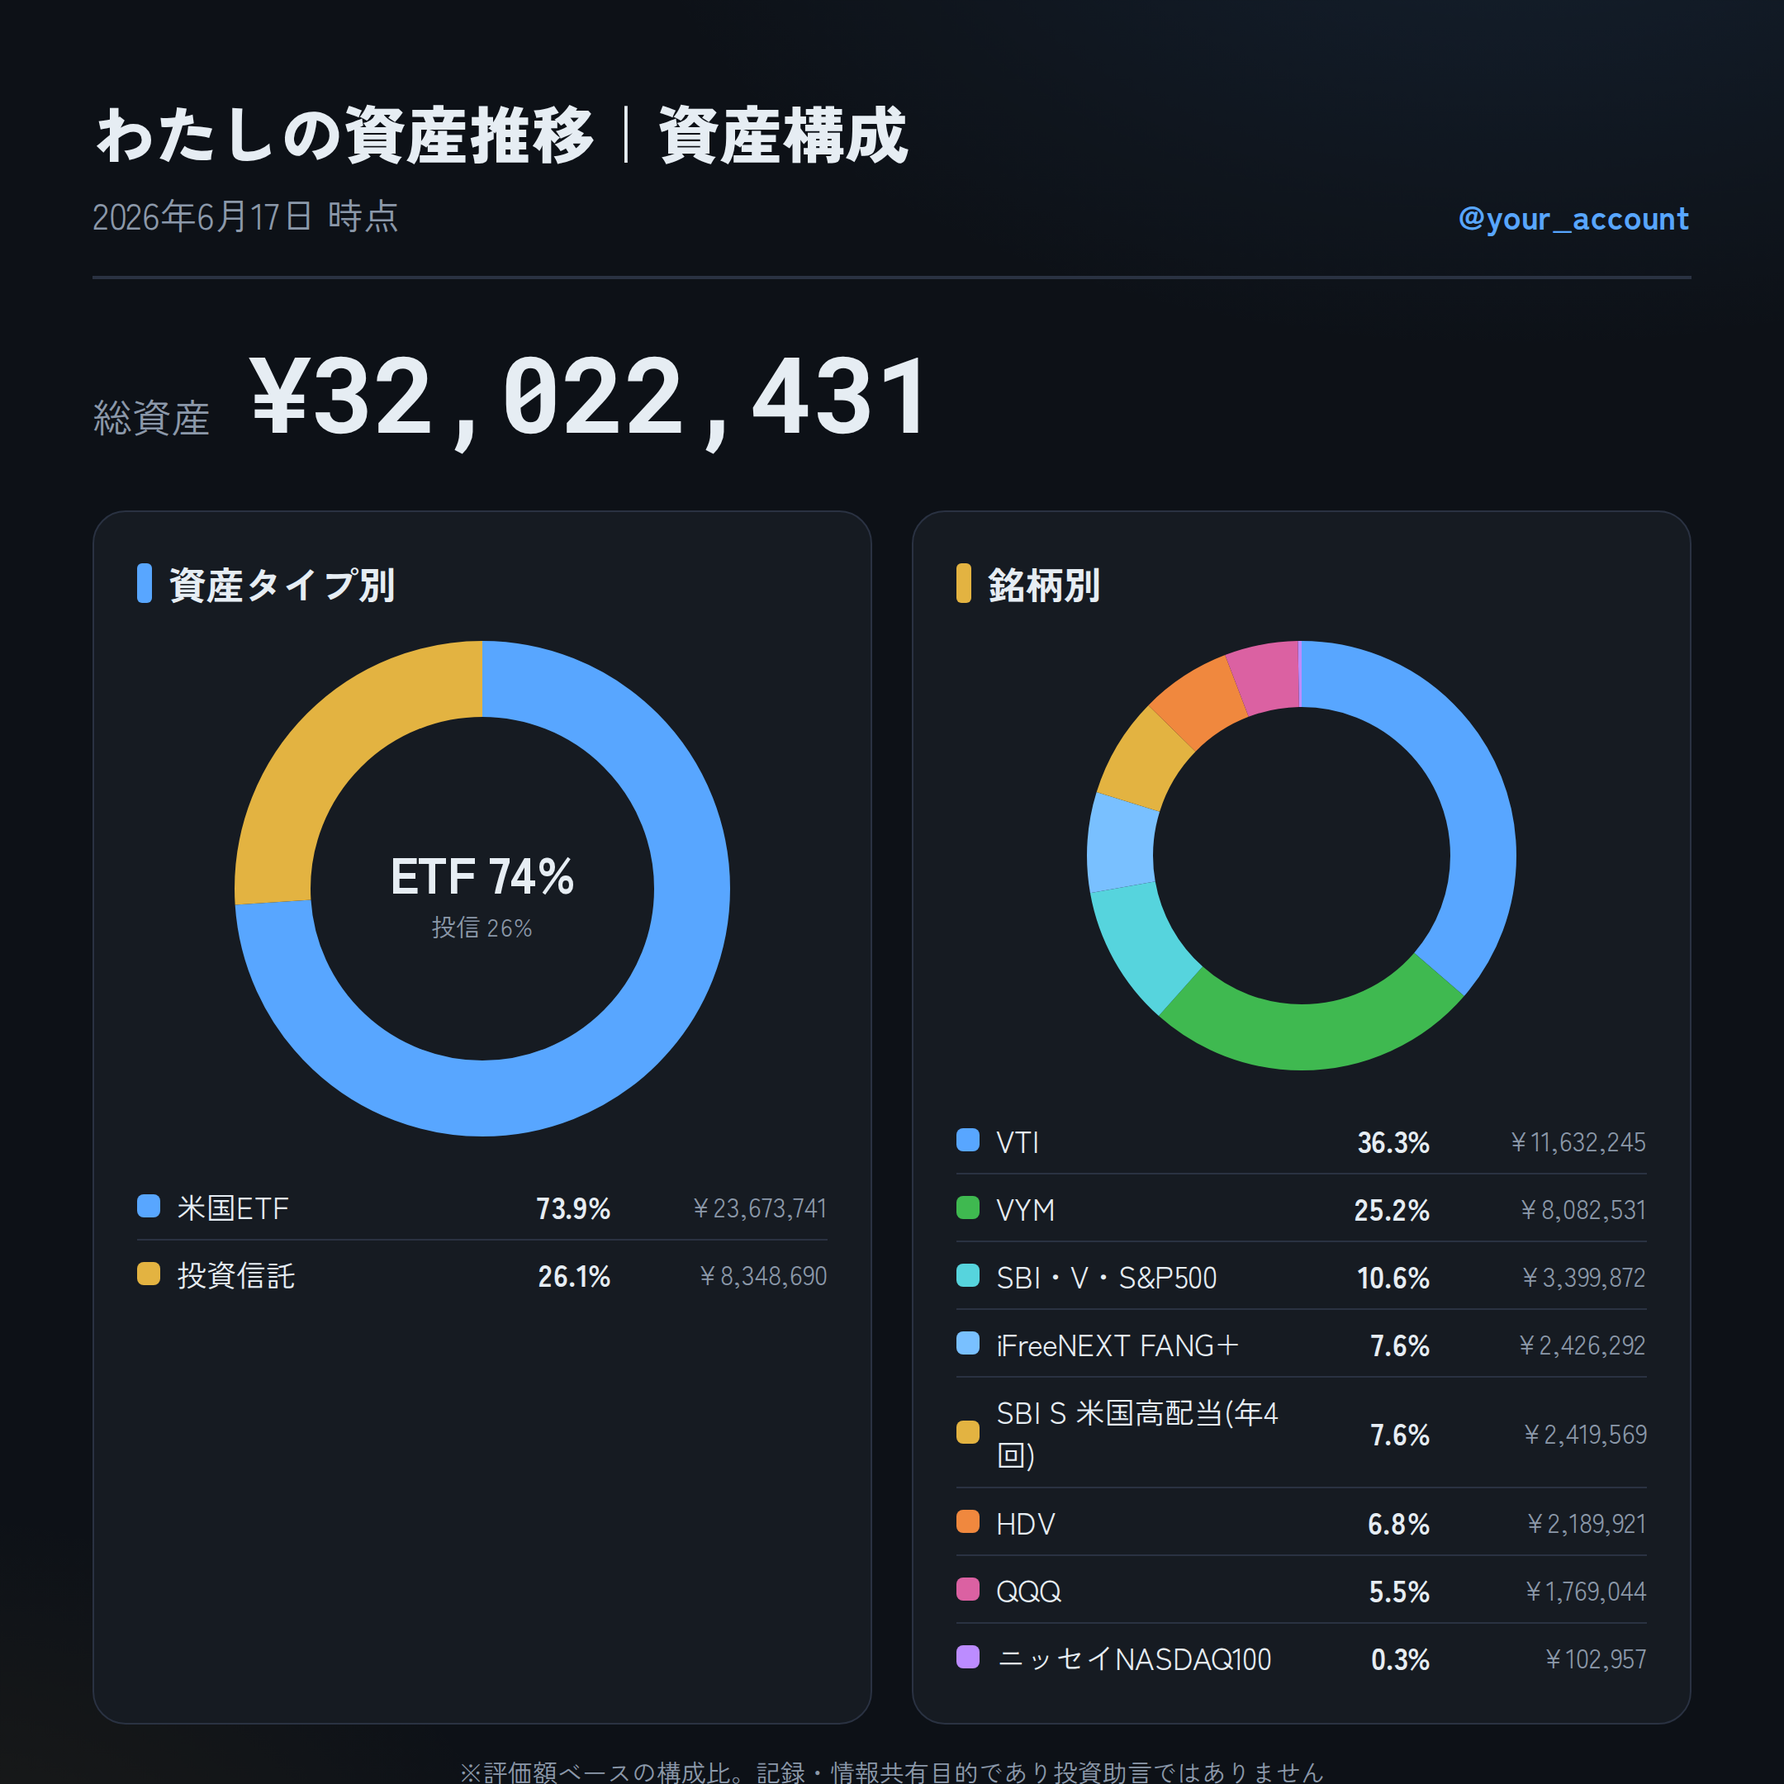
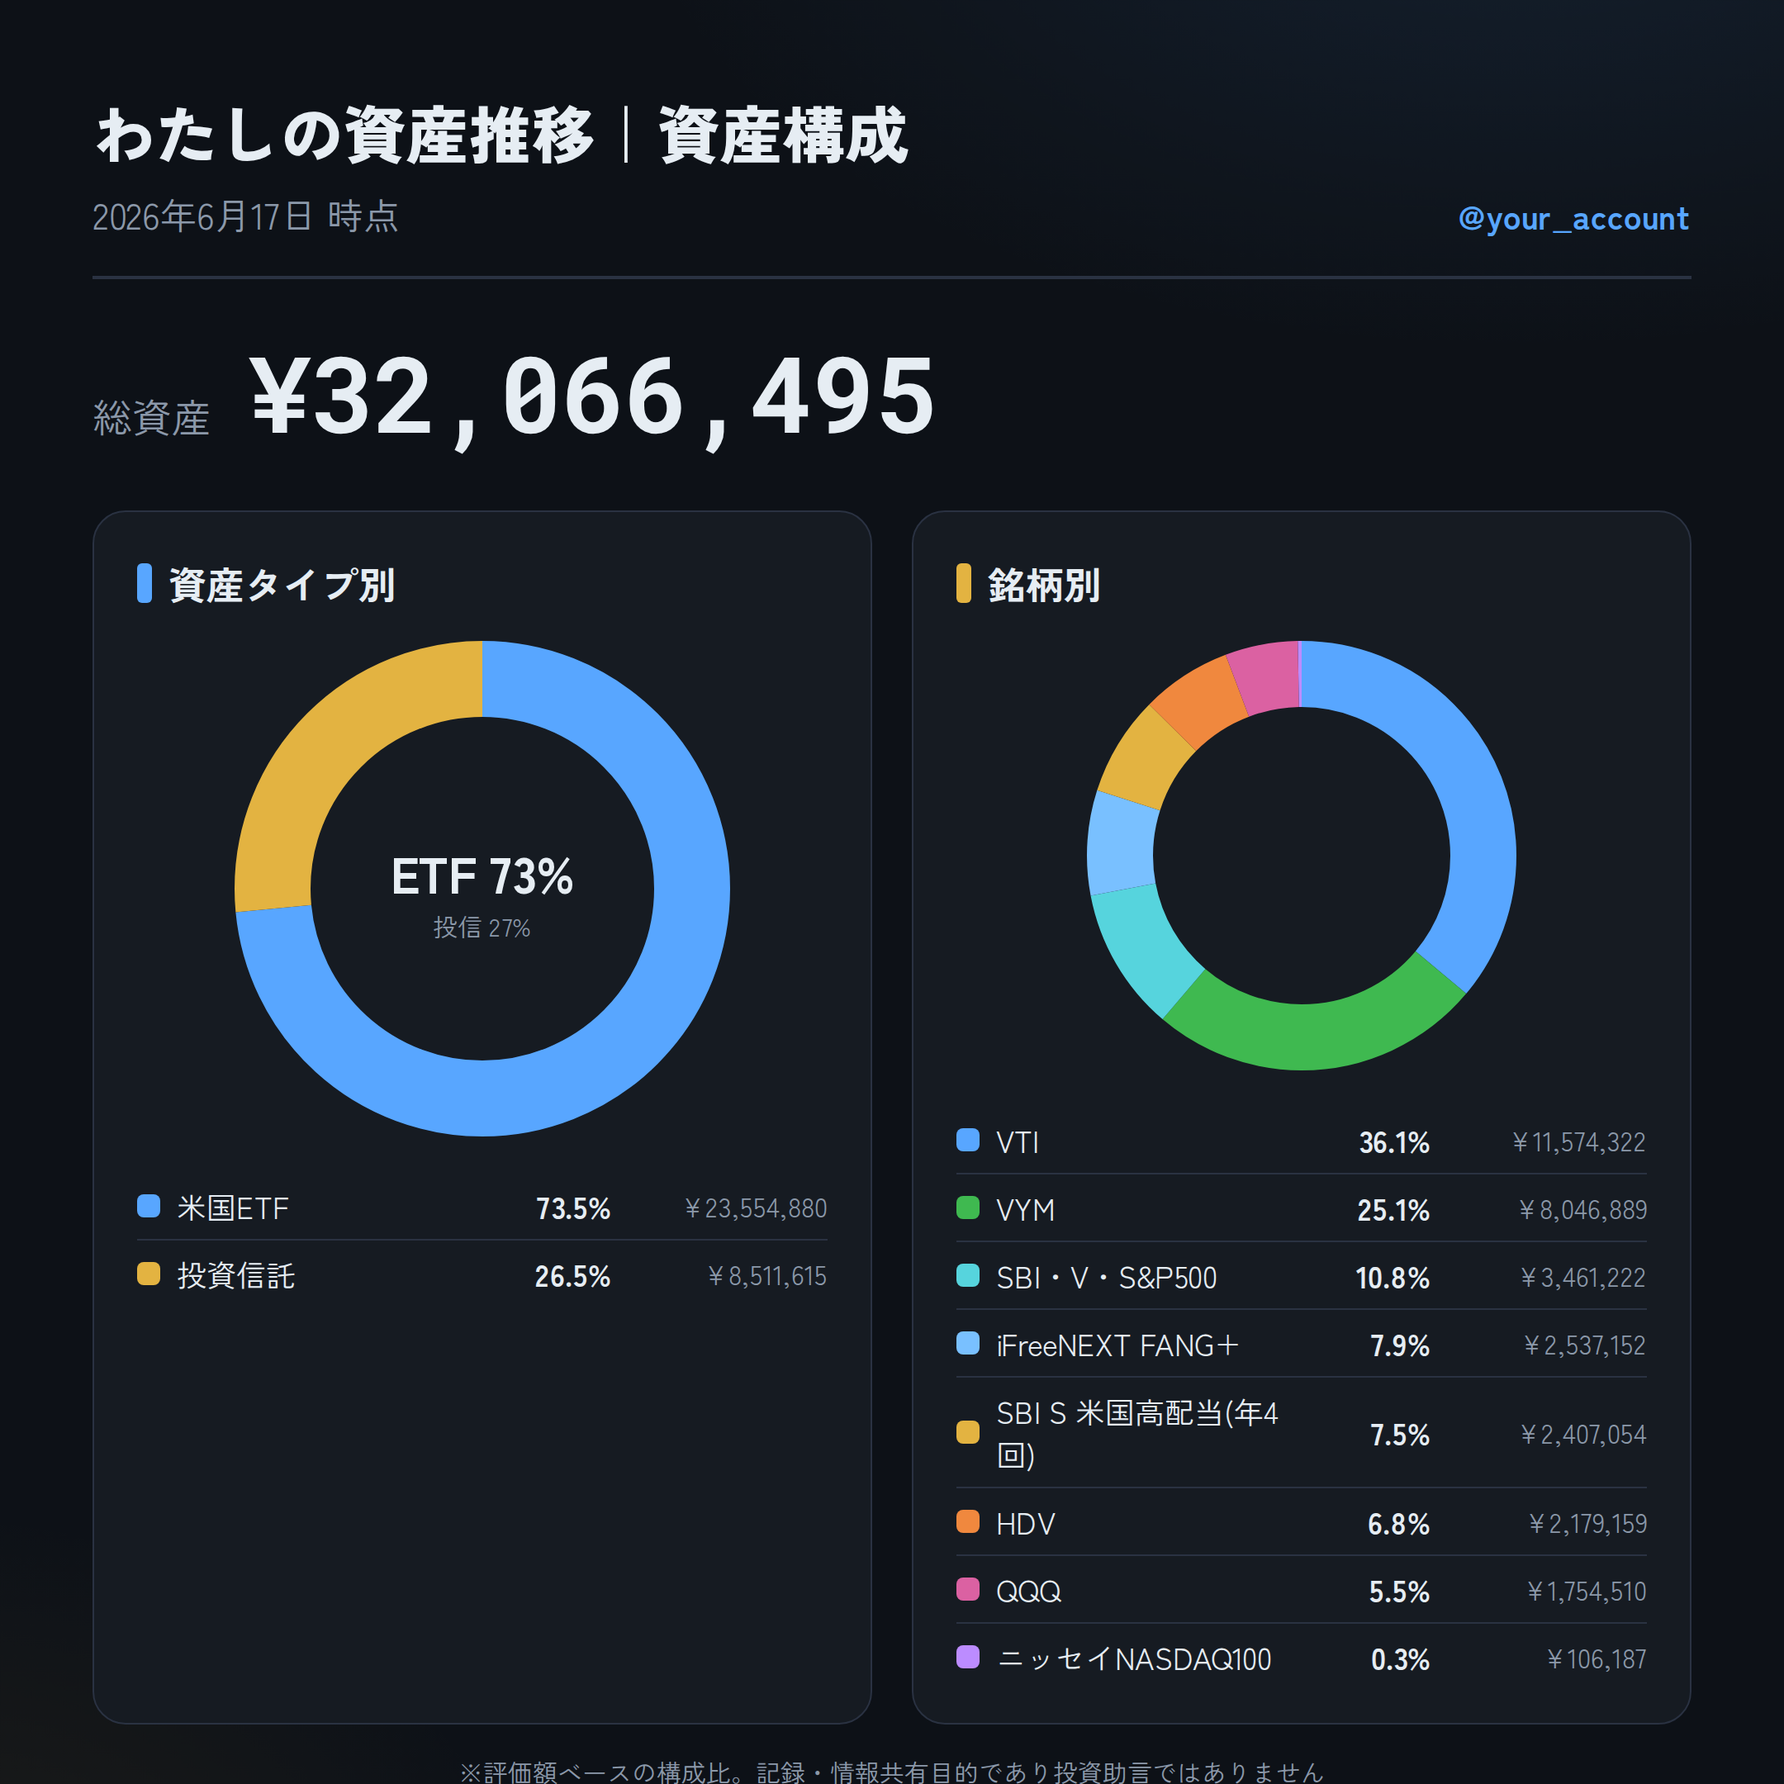
update: 2026-06-17

diff --git a/slide/allocation.html b/slide/allocation.html
@@ -61,87 +61,87 @@ footer { margin-top:18px; text-align:center; font-size:15px; color:var(--dim); }
 
   <div class="total-wrap">
     <span class="total-label">総資産</span>
-    <span class="total mono">¥32,022,431</span>
+    <span class="total mono">¥32,066,495</span>
   </div>
 
   <div class="cols">
     <div class="panel cat">
       <div class="panel-h">資産タイプ別</div>
       <div class="donut-wrap">
-        <svg viewBox="0 0 300 300" xmlns="http://www.w3.org/2000/svg"><circle cx="150.0" cy="150.0" r="127.0" fill="none" stroke="#58a6ff" stroke-width="46" stroke-dasharray="589.924 208.040" stroke-dashoffset="-0.000" transform="rotate(-90 150.0 150.0)"/><circle cx="150.0" cy="150.0" r="127.0" fill="none" stroke="#e3b341" stroke-width="46" stroke-dasharray="208.040 589.924" stroke-dashoffset="-589.924" transform="rotate(-90 150.0 150.0)"/></svg>
+        <svg viewBox="0 0 300 300" xmlns="http://www.w3.org/2000/svg"><circle cx="150.0" cy="150.0" r="127.0" fill="none" stroke="#58a6ff" stroke-width="46" stroke-dasharray="586.156 211.809" stroke-dashoffset="-0.000" transform="rotate(-90 150.0 150.0)"/><circle cx="150.0" cy="150.0" r="127.0" fill="none" stroke="#e3b341" stroke-width="46" stroke-dasharray="211.809 586.156" stroke-dashoffset="-586.156" transform="rotate(-90 150.0 150.0)"/></svg>
         <div class="donut-center">
-          <div class="dc-big">ETF 74%</div>
-          <div class="dc-sub">投信 26%</div>
+          <div class="dc-big">ETF 73%</div>
+          <div class="dc-sub">投信 27%</div>
         </div>
       </div>
       
         <div class="lg">
           <span class="dot" style="background:#58a6ff"></span>
           <span class="lg-name">米国ETF</span>
-          <span class="lg-pct">73.9%</span>
-          <span class="lg-jpy">¥23,673,741</span>
+          <span class="lg-pct">73.5%</span>
+          <span class="lg-jpy">¥23,554,880</span>
         </div>
         <div class="lg">
           <span class="dot" style="background:#e3b341"></span>
           <span class="lg-name">投資信託</span>
-          <span class="lg-pct">26.1%</span>
-          <span class="lg-jpy">¥8,348,690</span>
+          <span class="lg-pct">26.5%</span>
+          <span class="lg-jpy">¥8,511,615</span>
         </div>
     </div>
 
     <div class="panel sym">
       <div class="panel-h">銘柄別</div>
       <div class="donut-wrap small">
-        <svg viewBox="0 0 260 260" xmlns="http://www.w3.org/2000/svg"><circle cx="130.0" cy="130.0" r="110.0" fill="none" stroke="#58a6ff" stroke-width="40" stroke-dasharray="251.062 440.088" stroke-dashoffset="-0.000" transform="rotate(-90 130.0 130.0)"/><circle cx="130.0" cy="130.0" r="110.0" fill="none" stroke="#3fb950" stroke-width="40" stroke-dasharray="174.448 516.703" stroke-dashoffset="-251.062" transform="rotate(-90 130.0 130.0)"/><circle cx="130.0" cy="130.0" r="110.0" fill="none" stroke="#56d4dd" stroke-width="40" stroke-dasharray="73.381 617.770" stroke-dashoffset="-425.510" transform="rotate(-90 130.0 130.0)"/><circle cx="130.0" cy="130.0" r="110.0" fill="none" stroke="#79c0ff" stroke-width="40" stroke-dasharray="52.367 638.783" stroke-dashoffset="-498.891" transform="rotate(-90 130.0 130.0)"/><circle cx="130.0" cy="130.0" r="110.0" fill="none" stroke="#e3b341" stroke-width="40" stroke-dasharray="52.222 638.928" stroke-dashoffset="-551.258" transform="rotate(-90 130.0 130.0)"/><circle cx="130.0" cy="130.0" r="110.0" fill="none" stroke="#f0883e" stroke-width="40" stroke-dasharray="47.266 643.885" stroke-dashoffset="-603.481" transform="rotate(-90 130.0 130.0)"/><circle cx="130.0" cy="130.0" r="110.0" fill="none" stroke="#db61a2" stroke-width="40" stroke-dasharray="38.182 652.969" stroke-dashoffset="-650.746" transform="rotate(-90 130.0 130.0)"/><circle cx="130.0" cy="130.0" r="110.0" fill="none" stroke="#bc8cff" stroke-width="40" stroke-dasharray="2.222 688.928" stroke-dashoffset="-688.928" transform="rotate(-90 130.0 130.0)"/></svg>
+        <svg viewBox="0 0 260 260" xmlns="http://www.w3.org/2000/svg"><circle cx="130.0" cy="130.0" r="110.0" fill="none" stroke="#58a6ff" stroke-width="40" stroke-dasharray="249.469 441.681" stroke-dashoffset="-0.000" transform="rotate(-90 130.0 130.0)"/><circle cx="130.0" cy="130.0" r="110.0" fill="none" stroke="#3fb950" stroke-width="40" stroke-dasharray="173.440 517.710" stroke-dashoffset="-249.469" transform="rotate(-90 130.0 130.0)"/><circle cx="130.0" cy="130.0" r="110.0" fill="none" stroke="#56d4dd" stroke-width="40" stroke-dasharray="74.602 616.548" stroke-dashoffset="-422.909" transform="rotate(-90 130.0 130.0)"/><circle cx="130.0" cy="130.0" r="110.0" fill="none" stroke="#79c0ff" stroke-width="40" stroke-dasharray="54.685 636.465" stroke-dashoffset="-497.511" transform="rotate(-90 130.0 130.0)"/><circle cx="130.0" cy="130.0" r="110.0" fill="none" stroke="#e3b341" stroke-width="40" stroke-dasharray="51.881 639.270" stroke-dashoffset="-552.196" transform="rotate(-90 130.0 130.0)"/><circle cx="130.0" cy="130.0" r="110.0" fill="none" stroke="#f0883e" stroke-width="40" stroke-dasharray="46.969 644.182" stroke-dashoffset="-604.077" transform="rotate(-90 130.0 130.0)"/><circle cx="130.0" cy="130.0" r="110.0" fill="none" stroke="#db61a2" stroke-width="40" stroke-dasharray="37.816 653.334" stroke-dashoffset="-651.046" transform="rotate(-90 130.0 130.0)"/><circle cx="130.0" cy="130.0" r="110.0" fill="none" stroke="#bc8cff" stroke-width="40" stroke-dasharray="2.289 688.862" stroke-dashoffset="-688.862" transform="rotate(-90 130.0 130.0)"/></svg>
       </div>
       
         <div class="lg">
           <span class="dot" style="background:#58a6ff"></span>
           <span class="lg-name">VTI</span>
-          <span class="lg-pct">36.3%</span>
-          <span class="lg-jpy">¥11,632,245</span>
+          <span class="lg-pct">36.1%</span>
+          <span class="lg-jpy">¥11,574,322</span>
         </div>
         <div class="lg">
           <span class="dot" style="background:#3fb950"></span>
           <span class="lg-name">VYM</span>
-          <span class="lg-pct">25.2%</span>
-          <span class="lg-jpy">¥8,082,531</span>
+          <span class="lg-pct">25.1%</span>
+          <span class="lg-jpy">¥8,046,889</span>
         </div>
         <div class="lg">
           <span class="dot" style="background:#56d4dd"></span>
           <span class="lg-name">SBI・V・S&P500</span>
-          <span class="lg-pct">10.6%</span>
-          <span class="lg-jpy">¥3,399,872</span>
+          <span class="lg-pct">10.8%</span>
+          <span class="lg-jpy">¥3,461,222</span>
         </div>
         <div class="lg">
           <span class="dot" style="background:#79c0ff"></span>
           <span class="lg-name">iFreeNEXT FANG+</span>
-          <span class="lg-pct">7.6%</span>
-          <span class="lg-jpy">¥2,426,292</span>
+          <span class="lg-pct">7.9%</span>
+          <span class="lg-jpy">¥2,537,152</span>
         </div>
         <div class="lg">
           <span class="dot" style="background:#e3b341"></span>
           <span class="lg-name">SBI S 米国高配当(年4回)</span>
-          <span class="lg-pct">7.6%</span>
-          <span class="lg-jpy">¥2,419,569</span>
+          <span class="lg-pct">7.5%</span>
+          <span class="lg-jpy">¥2,407,054</span>
         </div>
         <div class="lg">
           <span class="dot" style="background:#f0883e"></span>
           <span class="lg-name">HDV</span>
           <span class="lg-pct">6.8%</span>
-          <span class="lg-jpy">¥2,189,921</span>
+          <span class="lg-jpy">¥2,179,159</span>
         </div>
         <div class="lg">
           <span class="dot" style="background:#db61a2"></span>
           <span class="lg-name">QQQ</span>
           <span class="lg-pct">5.5%</span>
-          <span class="lg-jpy">¥1,769,044</span>
+          <span class="lg-jpy">¥1,754,510</span>
         </div>
         <div class="lg">
           <span class="dot" style="background:#bc8cff"></span>
           <span class="lg-name">ニッセイNASDAQ100</span>
           <span class="lg-pct">0.3%</span>
-          <span class="lg-jpy">¥102,957</span>
+          <span class="lg-jpy">¥106,187</span>
         </div>
     </div>
   </div>

diff --git a/slide/slide.html b/slide/slide.html
@@ -72,37 +72,37 @@ footer { margin-top:18px; text-align:center; font-size:15px; color:var(--dim); }
   <header>
     <div>
       <div class="title">わたしの資産推移</div>
-      <div class="date">2026年6月17日 終値ベース ・ USD/JPY 160.38</div>
+      <div class="date">2026年6月17日 終値ベース ・ USD/JPY 160.26</div>
     </div>
     <div class="acct">@your_account</div>
   </header>
 
   <div class="total-wrap">
     <span class="total-label">総資産</span>
-    <span class="total mono">¥32,022,431</span>
-    <span class="total-day mono up">+0.85%</span>
+    <span class="total mono">¥32,066,495</span>
+    <span class="total-day mono up">+0.99%</span>
   </div>
 
   <div class="cmps">
         <div class="cmp up">
           <div class="cmp-label">前日比</div>
-          <div class="cmp-pct">+0.85%</div>
-          <div class="cmp-jpy">+¥268,904</div>
+          <div class="cmp-pct">+0.99%</div>
+          <div class="cmp-jpy">+¥312,968</div>
         </div>
         <div class="cmp up">
           <div class="cmp-label">先週比</div>
-          <div class="cmp-pct">+1.32%</div>
-          <div class="cmp-jpy">+¥418,650</div>
+          <div class="cmp-pct">+1.46%</div>
+          <div class="cmp-jpy">+¥462,714</div>
         </div>
         <div class="cmp up">
           <div class="cmp-label">先月比</div>
-          <div class="cmp-pct">+0.53%</div>
-          <div class="cmp-jpy">+¥168,616</div>
+          <div class="cmp-pct">+0.67%</div>
+          <div class="cmp-jpy">+¥212,680</div>
         </div>
         <div class="cmp up">
           <div class="cmp-label">年初来</div>
-          <div class="cmp-pct">+0.53%</div>
-          <div class="cmp-jpy">+¥168,616</div>
+          <div class="cmp-pct">+0.67%</div>
+          <div class="cmp-jpy">+¥212,680</div>
         </div></div>
 
   <div class="cols">
@@ -112,41 +112,41 @@ footer { margin-top:18px; text-align:center; font-size:15px; color:var(--dim); }
             <div class="hold">
               <div class="hold-main">
                 <span class="hold-name">VYM 米国高配当ETF</span>
-                <span class="hold-chg up">+0.42%</span>
+                <span class="hold-chg down">−0.02%</span>
               </div>
               <div class="hold-sub">
-                <span>$161.01 ・ 313株 / 前日 $160.33</span>
-                <span class="hold-jpy">¥8,082,531</span>
+                <span>$160.42 ・ 313株 / 前日 $160.46</span>
+                <span class="hold-jpy">¥8,046,889</span>
               </div>
             </div>
             <div class="hold">
               <div class="hold-main">
                 <span class="hold-name">VTI 全米株式ETF</span>
-                <span class="hold-chg down">−0.16%</span>
+                <span class="hold-chg down">−0.58%</span>
               </div>
               <div class="hold-sub">
-                <span>$371.94 ・ 195株 / 前日 $372.53</span>
-                <span class="hold-jpy">¥11,632,245</span>
+                <span>$370.37 ・ 195株 / 前日 $372.53</span>
+                <span class="hold-jpy">¥11,574,322</span>
               </div>
             </div>
             <div class="hold">
               <div class="hold-main">
                 <span class="hold-name">HDV 米国高配当ETF</span>
-                <span class="hold-chg down">−0.36%</span>
+                <span class="hold-chg up">+0.26%</span>
               </div>
               <div class="hold-sub">
-                <span>$27.59 ・ 495株 / 前日 $27.68</span>
-                <span class="hold-jpy">¥2,189,921</span>
+                <span>$27.47 ・ 495株 / 前日 $27.40</span>
+                <span class="hold-jpy">¥2,179,159</span>
               </div>
             </div>
             <div class="hold">
               <div class="hold-main">
                 <span class="hold-name">QQQ ナスダック100ETF</span>
-                <span class="hold-chg down">−1.16%</span>
+                <span class="hold-chg down">−1.90%</span>
               </div>
               <div class="hold-sub">
-                <span>$735.36 ・ 15株 / 前日 $744.00</span>
-                <span class="hold-jpy">¥1,769,044</span>
+                <span>$729.86 ・ 15株 / 前日 $744.00</span>
+                <span class="hold-jpy">¥1,754,510</span>
               </div>
             </div>
     </div>
@@ -156,41 +156,41 @@ footer { margin-top:18px; text-align:center; font-size:15px; color:var(--dim); }
             <div class="hold">
               <div class="hold-main">
                 <span class="hold-name">ニッセイNASDAQ100</span>
-                <span class="hold-chg up">+0.65%</span>
+                <span class="hold-chg up">+3.14%</span>
               </div>
               <div class="hold-sub">
-                <span>28,305円 ・ 36,374口</span>
-                <span class="hold-jpy">¥102,957</span>
+                <span>29,193円 ・ 36,374口</span>
+                <span class="hold-jpy">¥106,187</span>
               </div>
             </div>
             <div class="hold">
               <div class="hold-main">
                 <span class="hold-name">SBI・V・S&P500</span>
-                <span class="hold-chg up">+0.55%</span>
+                <span class="hold-chg up">+1.80%</span>
               </div>
               <div class="hold-sub">
-                <span>39,956円 ・ 850,904口</span>
-                <span class="hold-jpy">¥3,399,872</span>
+                <span>40,677円 ・ 850,904口</span>
+                <span class="hold-jpy">¥3,461,222</span>
               </div>
             </div>
             <div class="hold">
               <div class="hold-main">
                 <span class="hold-name">iFreeNEXT FANG+</span>
-                <span class="hold-chg down">−0.84%</span>
+                <span class="hold-chg up">+4.57%</span>
               </div>
               <div class="hold-sub">
-                <span>91,178円 ・ 266,105口</span>
-                <span class="hold-jpy">¥2,426,292</span>
+                <span>95,344円 ・ 266,105口</span>
+                <span class="hold-jpy">¥2,537,152</span>
               </div>
             </div>
             <div class="hold">
               <div class="hold-main">
                 <span class="hold-name">SBI S 米国高配当(年4回)</span>
-                <span class="hold-chg up">+0.89%</span>
+                <span class="hold-chg down">−0.52%</span>
               </div>
               <div class="hold-sub">
-                <span>12,374円 ・ 1,955,365口</span>
-                <span class="hold-jpy">¥2,419,569</span>
+                <span>12,310円 ・ 1,955,365口</span>
+                <span class="hold-jpy">¥2,407,054</span>
               </div>
             </div>
     </div>
